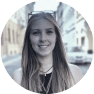
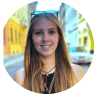
optimized photos and refactored ourTeam

diff --git a/src/data/coworkers.data.js b/src/data/coworkers.data.js
@@ -1,18 +1,18 @@
-import volodymyrKavun from '../images/ourTeam/volodymyrKavun.jpeg';
+import volodymyrKavun from '../images/ourTeam/volodymyrKavun.png';
 import maksPeltek from '../images/ourTeam/maksPeltek.png';
-import nataliiaBoiko from '../images/ourTeam/nataliiaBoiko.jpeg';
-import ivikaDuda from '../images/ourTeam/ivikaDuda.jpeg';
-import andriiTsapkov from '../images/ourTeam/andriiTsapkov.jpeg';
-import dmytroKolodchenko from '../images/ourTeam/dmytroKolodchenko.jpeg';
-import maksPadalka from '../images/ourTeam/maksPadalka.jpeg';
-import vitaliiPavlovskyi from '../images/ourTeam/vitaliiPavlovskyi.jpeg';
-import myroslavKozar from '../images/ourTeam/myroslavKozar.jpeg';
-// import volodymurPolztyuk from '../images/ourTeam/volodymurPolztyuk.jpeg';
-// import maksymIgnatenko from '../images/ourTeam/maksymIgnatenko.jpeg';
-import oksanaRomanenko from '../images/ourTeam/oksanaRomanenko.jpg';
-import ivanGagaus from '../images/ourTeam/ivanGagaus.jpg';
-import denysKudriavets from '../images/ourTeam/denysKudriavets.jpg';
-import dmitroKotenev from '../images/ourTeam/dmitroKotenev.jpg';
+import nataliiaBoiko from '../images/ourTeam/nataliiaBoiko.png';
+import ivikaDuda from '../images/ourTeam/ivikaDuda.png';
+import andriiTsapkov from '../images/ourTeam/andriiTsapkov.png';
+import dmytroKolodchenko from '../images/ourTeam/dmytroKolodchenko.png';
+import maksPadalka from '../images/ourTeam/maksPadalka.png';
+import vitaliiPavlovskyi from '../images/ourTeam/vitaliiPavlovskyi.png';
+import myroslavKozar from '../images/ourTeam/myroslavKozar.png';
+// import volodymurPolztyuk from '../images/ourTeam/volodymurPolztyuk.png';
+// import maksymIgnatenko from '../images/ourTeam/maksymIgnatenko.png';
+import oksanaRomanenko from '../images/ourTeam/oksanaRomanenko.png';
+import ivanGagaus from '../images/ourTeam/ivanGagaus.png';
+import denysKudriavets from '../images/ourTeam/denysKudriavets.png';
+import dmitroKotenev from '../images/ourTeam/dmitroKotenev.png';
 
 
 import volodymyrKavunSmall from '../images/ourTeam/volodymyrKavunSmall.png';
@@ -28,13 +28,12 @@ import myroslavKozarSmall from '../images/ourTeam/myroslavKozarSmall.png';
 // import maksymIgnatenkoSmall from '../images/ourTeam/maksymIgnatenkoSmall.png';
 import oksanaRomanenkoSmall from '../images/ourTeam/oksanaRomanenkoSmall.png';
 import ivanGagausSmall from '../images/ourTeam/ivanGagausSmall.png';
-// import denysKudriavetsSmall from '../images/ourTeam/denysKudriavetsSmall.png';
-// import dmitroKotenevSmall from '../images/ourTeam/dmitroKotenevSmall.png';
+import denysKudriavetsSmall from '../images/ourTeam/denysKudriavetsSmall.png';
+import dmitroKotenevSmall from '../images/ourTeam/dmitroKotenevSmall.png';
 
 
 
 
-// import mapGeneral from '../images/coworkersLocations/mapGeneral.png';
 import mapGdańsk from '../images/coworkersLocations/mapGdańsk.png';
 import mapIvanoFrankivsk from '../images/coworkersLocations/mapIvanoFrankivsk.png';
 import mapKamianetsPodilskyi from '../images/coworkersLocations/mapKamianetsPodilskyi.png';
@@ -45,7 +44,7 @@ import mapLviv from '../images/coworkersLocations/mapLviv.png';
 import mapOdesa from '../images/coworkersLocations/mapOdesa.png';
 import mapOstrava from '../images/coworkersLocations/mapOstrava.png';
 import mapSumy from '../images/coworkersLocations/mapSumy.png';
-import mapTallinn from '../images/coworkersLocations/mapTallinn.png';
+// import mapTallinn from '../images/coworkersLocations/mapTallinn.png';
 import mapTrenčín from '../images/coworkersLocations/mapTrenčín.png';
 import mapUjgorod from '../images/coworkersLocations/mapUjgorod.png';
 import mapZaporizhzhia from '../images/coworkersLocations/mapZaporizhzhia.png';
@@ -55,7 +54,7 @@ import mapZaporizhzhia from '../images/coworkersLocations/mapZaporizhzhia.png';
 
 export const coworkersData = [
   {
-    id: '1',
+    id: '0',
     name: 'Володимир Кавун',
     photo: volodymyrKavun,
     photoSmall: volodymyrKavunSmall,
@@ -75,7 +74,7 @@ export const coworkersData = [
   },
 
   {
-    id: '2',
+    id: '1',
     name: 'Максим Пельтек',
     photo: maksPeltek,
     photoSmall: maksPeltekSmall,
@@ -95,7 +94,7 @@ export const coworkersData = [
   },
 
   {
-    id: '3',
+    id: '2',
     name: 'Наталія Бойко',
     photo: nataliiaBoiko,
     photoSmall: nataliiaBoikoSmall,
@@ -115,7 +114,7 @@ export const coworkersData = [
   },
 
   {
-    id: '4',
+    id: '3',
     name: 'Івіка Дуда',
     photo: ivikaDuda,
     photoSmall: ivikaDudaSmall,
@@ -135,7 +134,7 @@ export const coworkersData = [
   },
 
   {
-    id: '5',
+    id: '4',
     name: 'Андрій Цапков',
     photo: andriiTsapkov,
     photoSmall: andriiTsapkovSmall,
@@ -155,7 +154,7 @@ export const coworkersData = [
   },
 
   {
-    id: '6',
+    id: '5',
     name: 'Дмитро Колодченко',
     photo: dmytroKolodchenko,
     photoSmall: dmytroKolodchenkoSmall,
@@ -175,7 +174,7 @@ export const coworkersData = [
   },
 
   {
-    id: '7',
+    id: '6',
     name: 'Максим Падалка',
     photo: maksPadalka,
     photoSmall: maksPadalkaSmall,
@@ -195,7 +194,7 @@ export const coworkersData = [
   },
 
   {
-    id: '8',
+    id: '7',
     name: 'Віталій Павловський',
     photo: vitaliiPavlovskyi,
     photoSmall: vitaliiPavlovskyiSmall,
@@ -215,7 +214,7 @@ export const coworkersData = [
   },
 
   {
-    id: '9',
+    id: '8',
     name: 'Володимир Ползтюк',
     // photo: volodymurPolztyuk,
     // photoSmall: volodymurPolztyukSmall,
@@ -235,7 +234,7 @@ export const coworkersData = [
   },
 
   {
-    id: '10',
+    id: '9',
     name: 'Мирослав Козар',
     photo: myroslavKozar,
     photoSmall: myroslavKozarSmall,
@@ -255,34 +254,14 @@ export const coworkersData = [
   },
 
   {
-    id: '11',
-    name: 'Максим Ігнатенко',
-    // photo: maksymIgnatenko,
-    // photoSmall: maksymIgnatenkoSmall,
-    profession: 'Full Stack Developer',
-    quote: 'Прокидайтесь рішучими, лягайте спати задоволеними.',
-    quoteEn: 'Wake up determined, go to bed satisfied.',
-    humor: '',
-    city: 'Таллінн',
-    cityEn: 'Tallinn',
-    latitude: 59.436962,
-    longitude: 24.753574,
-    country: 'Естонія',
-    countryEn: 'Estonia',
-    location: mapTallinn,
-    email: 'cadillac.maxim@gmail.com',
-    phone: +380664770959,
-  },
-
-  {
-    id: '12',
+    id: '10',
     name: 'Оксана Романенко',
     photo: oksanaRomanenko,
     photoSmall: oksanaRomanenkoSmall,
     profession: 'UX/UI Designer',
     quote: 'Коли квітка не цвіте, Ви виправляєте не квітку, а середовище, в якому вона росте.',
     quoteEn: 'When a flower doesn’t bloom, you fix the environment in which it grows, not the flower',
-    humor: '',
+    humor: 'Там де жовтенький. Тільки не той, що жовтенький.',
     city: 'Гданськ',
     cityEn: 'Gdańsk',
     latitude: 54.372158,
@@ -295,7 +274,7 @@ export const coworkersData = [
   },
 
   {
-    id: '13',
+    id: '11',
     name: 'Іван Гагаус',
     photo: ivanGagaus,
     photoSmall: ivanGagausSmall,
@@ -315,10 +294,10 @@ export const coworkersData = [
   },
 
   {
-    id: '14',
+    id: '12',
     name: 'Денис Кудрявець',
     photo: denysKudriavets,
-    // photoSmall: denysKudriavetsSmall,
+    photoSmall: denysKudriavetsSmall,
     profession: 'QA Engineer',
     quote: '',
     quoteEn: '',
@@ -335,10 +314,10 @@ export const coworkersData = [
   },
 
   {
-    id: '15',
+    id: '13',
     name: 'Дмитро Котеньов',
     photo: dmitroKotenev,
-    // photoSmall: dmitroKotenevSmall,
+    photoSmall: dmitroKotenevSmall,
     profession: 'UX/UI Designer',
     quote: 'Життя - це колекція моментів. Тому збирайте їх, як найкращі фотографії.',
     quoteEn: '',
@@ -353,4 +332,23 @@ export const coworkersData = [
     email: 'kotenevdima1@gmail.com',
     phone: +380632468706,
   },
+  // {
+  //   id: '14',
+  //   name: 'Максим Ігнатенко',
+  //   // photo: maksymIgnatenko,
+  //   // photoSmall: maksymIgnatenkoSmall,
+  //   profession: 'Full Stack Developer',
+  //   quote: 'Прокидайтесь рішучими, лягайте спати задоволеними.',
+  //   quoteEn: 'Wake up determined, go to bed satisfied.',
+  //   humor: '',
+  //   city: 'Таллінн',
+  //   cityEn: 'Tallinn',
+  //   latitude: 59.436962,
+  //   longitude: 24.753574,
+  //   country: 'Естонія',
+  //   countryEn: 'Estonia',
+  //   location: mapTallinn,
+  //   email: 'cadillac.maxim@gmail.com',
+  //   phone: +380664770959,
+  // },
 ];

diff --git a/src/components/screens/OurTeamPage/OurTeamPage.jsx b/src/components/screens/OurTeamPage/OurTeamPage.jsx
@@ -5,28 +5,23 @@ import mapGeneral from 'images/coworkersLocations/mapGeneral.png'
 
 
 const OurTeamPage = () => {
-    const [coworkerId, setCoworkerId] = useState(0);
+    const [coworkerId, setCoworkerId] = useState(null);
 
 
     return (
-        <section className={styles.wrapper}>Наша Команда
-            {!coworkerId ? < img className={styles.mapGeneral} src={mapGeneral} alt="All coworker's locations" /> : <div>{coworkersData.map(item => {
-                return (
-                    <div className={styles.coworker}>
-                        <img className={styles.photo} src={item.photo} alt={`photo ${item.name}`} />
-                        <div>
-                            <p className={styles.name}>{item.name}</p>
-                            <p className={styles.profession}>{item.profession}</p>
-                            <p className={styles.city}>{item.city},
-                                <span className={styles.country} >{item.country}</span></p>
-                            <p className={styles.quote}>{item.quote}</p>
-                            <p className={styles.humor}>{item.humor}</p>
-                            <img className={styles.map} src={item.location} alt={`location ${item.name}`}></img>
-                        </div>
-                    </div>
-                )
-            })
-            }</div>}
+        <section className={styles.wrapper}>
+            {!coworkerId ? < img className={styles.mapGeneral} src={mapGeneral} alt="All coworker's locations" /> : <div className={styles.coworker}>
+                <img className={styles.photo} src={coworkersData[coworkerId].photo} alt={coworkersData[coworkerId].name} />
+                <div>
+                    <p className={styles.name}>{coworkersData[coworkerId].name}</p>
+                    <p className={styles.profession}>{coworkersData[coworkerId].profession}</p>
+                    <p className={styles.city}>{coworkersData[coworkerId].city},
+                        <span className={styles.country} >{coworkersData[coworkerId].country}</span></p>
+                    <p className={styles.quote}>{coworkersData[coworkerId].quote}</p>
+                    <p className={styles.humor}>{coworkersData[coworkerId].humor}</p>
+                    <img className={styles.map} src={coworkersData[coworkerId].location} alt={`location ${coworkersData[coworkerId].name}`}></img>
+                </div>
+            </div>}
 
             <ul className={styles.slider}>
                 {coworkersData.map(item => {

diff --git a/src/components/screens/OurTeamPage/OurTeamPage.module.scss b/src/components/screens/OurTeamPage/OurTeamPage.module.scss
@@ -3,6 +3,11 @@
 .wrapper {
     padding: 90px 16px 16px 16px;
     background-color: var(--main_bg_color_our_team);
+    width: 100vw;
+    height: 100vh;
+
+    // для видимости alt в img, в фигме этого нет
+    color: #FAFCE3;
 }
 
 .coworker {
@@ -57,7 +62,7 @@
     line-height: 19px;
     letter-spacing: 0.05em;
 
-    color: #D9D9D9;
+    color: rgba(235, 251, 250, 0.7);
 }
 
 .quote {
@@ -90,7 +95,6 @@
 .mapGeneral {
     width: 1010px;
     height: 572px;
-
 }
 
 .slider {
@@ -98,7 +102,6 @@
 }
 
 .sliderPhoto {
-    // width: 94px;
-    // // height: 94px;
-    // border-radius: 50%;
+    cursor: pointer;
+    border-radius: 50%;
 }
